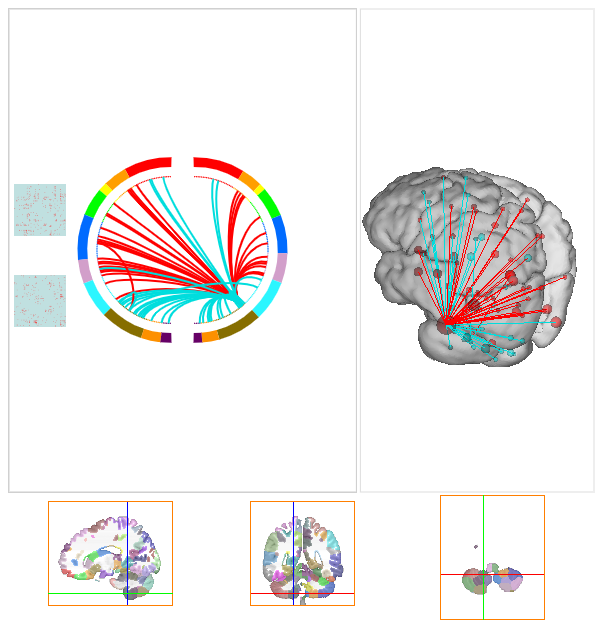
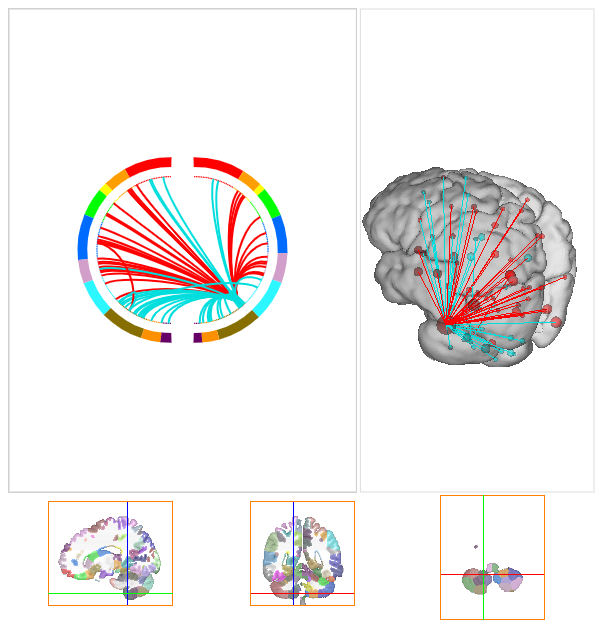
fixes to connectivity control -- do not show matrices if they are not to be displayed and other display tests

Changed region(s): [[0.0, 0.4249, 0.1198, 0.5463], [0.0, 0.2732, 0.1198, 0.3946]]

diff --git a/js/webcomponents/bisweb_connectivitycontrolelement.js b/js/webcomponents/bisweb_connectivitycontrolelement.js
@@ -448,9 +448,6 @@ const bisGUIConnectivityControl = function(parent,orthoviewer,layoutmanager) {
     
     var drawMatricesAndLegendsAsImages = function() {
 
-        if (internal.showlegend===false)
-            return;
-        
         if (internal.parcellation===null)
             return;
         
@@ -498,47 +495,50 @@ const bisGUIConnectivityControl = function(parent,orthoviewer,layoutmanager) {
         let py=originy+4+offset;
         let lobegap=dlobe;
 
-        internal.overlaycontext.save();
-        internal.overlaycontext.fillStyle="#cccccc";
-        internal.overlaycontext.fillRect(px-4,py-4,pw+8,needed);
-        internal.overlaycontext.fillStyle="#000000";
-        internal.overlaycontext.textAlign="left";
-        internal.overlaycontext.font=fnsize2+"px Arial";
-        internal.overlaycontext.fillText("'Lobes'",px+5,py+lobegap);
-        internal.overlaycontext.textAlign="center";
-        internal.overlaycontext.font=fnsize+"px Arial";
-        py+=(2*lobegap);
-        
-        for (let i=1;i<=10;i++) {
-            let tot=util.range(internal.parcellation.lobeStats[i][2],0,10000),tot2=0;
-            if (internal.parcellation.lobeStats.length>(i+10))
-                tot2=util.range(internal.parcellation.lobeStats[i+10][2],0,10000);
-            if (tot+tot2>0) {
-                internal.overlaycontext.fillStyle=internal.parcellation.getNonSidedLobeColor(i);
-                internal.overlaycontext.fillRect(px,py,pw,1.5*lobegap);
-                internal.overlaycontext.fillStyle=internal.parcellation.getInverseNonSidedLobeColor(i);
-                let name=gui_Lobes[i];
-                name=name.slice(2,name.length);
-                internal.overlaycontext.fillText(name,px+0.5*pw,py+lobegap);
-                py+=(2*lobegap);
+        if (internal.showlegend) {
+            internal.overlaycontext.save();
+            internal.overlaycontext.fillStyle="#cccccc";
+            internal.overlaycontext.fillRect(px-4,py-4,pw+8,needed);
+            internal.overlaycontext.fillStyle="#000000";
+            internal.overlaycontext.textAlign="left";
+            internal.overlaycontext.font=fnsize2+"px Arial";
+            internal.overlaycontext.fillText("'Lobes'",px+5,py+lobegap);
+            internal.overlaycontext.textAlign="center";
+            internal.overlaycontext.font=fnsize+"px Arial";
+            py+=(2*lobegap);
+            
+            for (let i=1;i<=10;i++) {
+                let tot=util.range(internal.parcellation.lobeStats[i][2],0,10000),tot2=0;
+                if (internal.parcellation.lobeStats.length>(i+10))
+                    tot2=util.range(internal.parcellation.lobeStats[i+10][2],0,10000);
+                if (tot+tot2>0) {
+                    internal.overlaycontext.fillStyle=internal.parcellation.getNonSidedLobeColor(i);
+                    internal.overlaycontext.fillRect(px,py,pw,1.5*lobegap);
+                    internal.overlaycontext.fillStyle=internal.parcellation.getInverseNonSidedLobeColor(i);
+                    let name=gui_Lobes[i];
+                    name=name.slice(2,name.length);
+                    internal.overlaycontext.fillText(name,px+0.5*pw,py+lobegap);
+                    py+=(2*lobegap);
+                }
             }
         }
         
         
         let y0=fnsize2*2;
-        if (y0<internal.parcellation.box[1]) {
-            let midx=0.5*(internal.parcellation.box[0]+internal.parcellation.box[2]);
-            internal.overlaycontext.fillStyle="rgb(0,0,0)";
-            internal.overlaycontext.font=fnsize2+"px Arial";
-            internal.overlaycontext.textAlign="center";
-            internal.overlaycontext.clearRect(0,0,cw,internal.parcellation.box[1]-2);
-            let y0_0=internal.parcellation.box[1]-0.5*(internal.parcellation.box[1]-fnsize2);
-            internal.overlaycontext.fillText('Using node definitions from '+internal.parcellation.description+' with '+(internal.parcellation.rois.length)+' nodes.',
-                                             midx,y0_0);
+        if (internal.showlegend) {
+            if (y0<internal.parcellation.box[1]) {
+                let midx=0.5*(internal.parcellation.box[0]+internal.parcellation.box[2]);
+                internal.overlaycontext.fillStyle="rgb(0,0,0)";
+                internal.overlaycontext.font=fnsize2+"px Arial";
+                internal.overlaycontext.textAlign="center";
+                internal.overlaycontext.clearRect(0,0,cw,internal.parcellation.box[1]-2);
+                let y0_0=internal.parcellation.box[1]-0.5*(internal.parcellation.box[1]-fnsize2);
+                internal.overlaycontext.fillText('Using node definitions from '+internal.parcellation.description+' with '+(internal.parcellation.rois.length)+' nodes.',
+                                                 midx,y0_0);
+            }
+            
+            internal.overlaycontext.restore();
         }
-
-
-        internal.overlaycontext.restore();
         
         let needed2=2*(imagewidth+25+4)+30;
         if (needed2>boxheight) {
@@ -570,11 +570,10 @@ const bisGUIConnectivityControl = function(parent,orthoviewer,layoutmanager) {
                                                        internal.overlaycontext,
                                                        internal.parcellation);
             let minx=offsets[im][0],miny=offsets[im][1],sz=offsets[im][2];
-
             
             
-            if (image!==null) {
-                
+            if (internal.showlegend && image!==null) {
+                    
                 internal.overlaycontext.save();
                 internal.overlaycontext.lineWidth=1;
                 internal.overlaycontext.fillStyle="rgb(0,0,0)";
@@ -610,18 +609,28 @@ const bisGUIConnectivityControl = function(parent,orthoviewer,layoutmanager) {
                 if (im==0) {
                     let a=minx,b=miny,c=sz;
                     ImageObject.onload = function() {
-                        internal.overlaycontext.drawImage(ImageObject,
-                                                          0,0,numrows,numrows,
-                                                          a,b,c,c);
+                        if (internal.showlegend) {
+                            internal.overlaycontext.drawImage(ImageObject,
+                                                              0,0,numrows,numrows,
+                                                              a,b,c,c);
+                        }
                     };
                 } else {
                     let a1=minx,b1=miny,c1=sz;
                     ImageObject.onload = function() {
-                        internal.overlaycontext.drawImage(ImageObject,
-                                                          0,0,numrows,numrows,
-                                                          a1,b1,c1,c1);
+                        if (internal.showlegend) {
+                            internal.overlaycontext.drawImage(ImageObject,
+                                                              0,0,numrows,numrows,
+                                                              a1,b1,c1,c1);
+                        }
                     };
                 }
+            } else {
+                let a=minx,b=miny,c=sz;
+                internal.overlaycontext.save();
+                internal.overlaycontext.fillStyle="#ffffff";
+                internal.overlaycontext.fillRect(a,b,c,c);
+                internal.overlaycontext.restore();
             }
         }
     };
@@ -702,8 +711,8 @@ const bisGUIConnectivityControl = function(parent,orthoviewer,layoutmanager) {
             
         }
 
-        if (internal.showlegend === true)
-            drawMatricesAndLegendsAsImages();
+        //if (internal.showlegend === true)
+        drawMatricesAndLegendsAsImages();
 
         if (!skip3d)
             internal.layoutmanager.getrenderer().render(internal.subviewers[3].scene,
@@ -1910,6 +1919,7 @@ const bisGUIConnectivityControl = function(parent,orthoviewer,layoutmanager) {
             
             internal.showlegend=!dt.showlegend;
             toggleshowlegend();
+
             internal.inrestorestate=false;
         },
     

diff --git a/js/webtest/bisweb_displayregressionelement.js b/js/webtest/bisweb_displayregressionelement.js
@@ -19,7 +19,7 @@
 
 "use strict";
 
-
+const bis_webfileutil=require('bis_webfileutil');
 const webutil=require('bis_webutil');
 const $=require('jquery');
 const bisdate=require('bisdate.js').date;
@@ -123,12 +123,14 @@ var runTest = async function(testindex,viewerindex,basestate='',viewerstate='',c
 
 var runTests= async function(multiple=false) {
 
+    bis_webfileutil.setMode('local',false);
+    
     globalParams.resdiv.empty();
     
     let first=parseInt($("#first").val())||0;
     let last=parseInt($("#last").val()) || 0;
 
-    if (multiple===false)
+    if (multiple===false) 
         last=first;
     
     let good=0;
@@ -191,7 +193,13 @@ var runTests= async function(multiple=false) {
     }
 
     webutil.createAlert("Tests Completed");
-    
+    if (multiple===false)  {
+        let newfirst=first+1;
+        if (newfirst<displaytestlist.length)
+            $('#first').val(newfirst);
+        else
+            $('#first').val(0);
+    }
 };
 
 var initialize=function(testlist) {
@@ -247,11 +255,15 @@ class DisplayRegressionElement extends HTMLElement {
 
         let name=this.getAttribute('bis-testlist') || 'overlay';
         displaytestlist=testmodule[name];
+
+
         
         webutil.runAfterAllLoaded( () => {
 
+
+            
             if (name==="overlay")
-                webutil.setAlertTop(910);
+                webutil.setAlertTop(920);
             else
                 webutil.setAlertTop(870);
             

diff --git a/web/biswebdisplaytest.css b/web/biswebdisplaytest.css
@@ -119,6 +119,7 @@ bisweb-viewerlayoutelement {
     left: 15px;
     top: 10px;
     margin : 4 4 4 4;
+    width: 400px;
 }
 
 .bisbtn {
